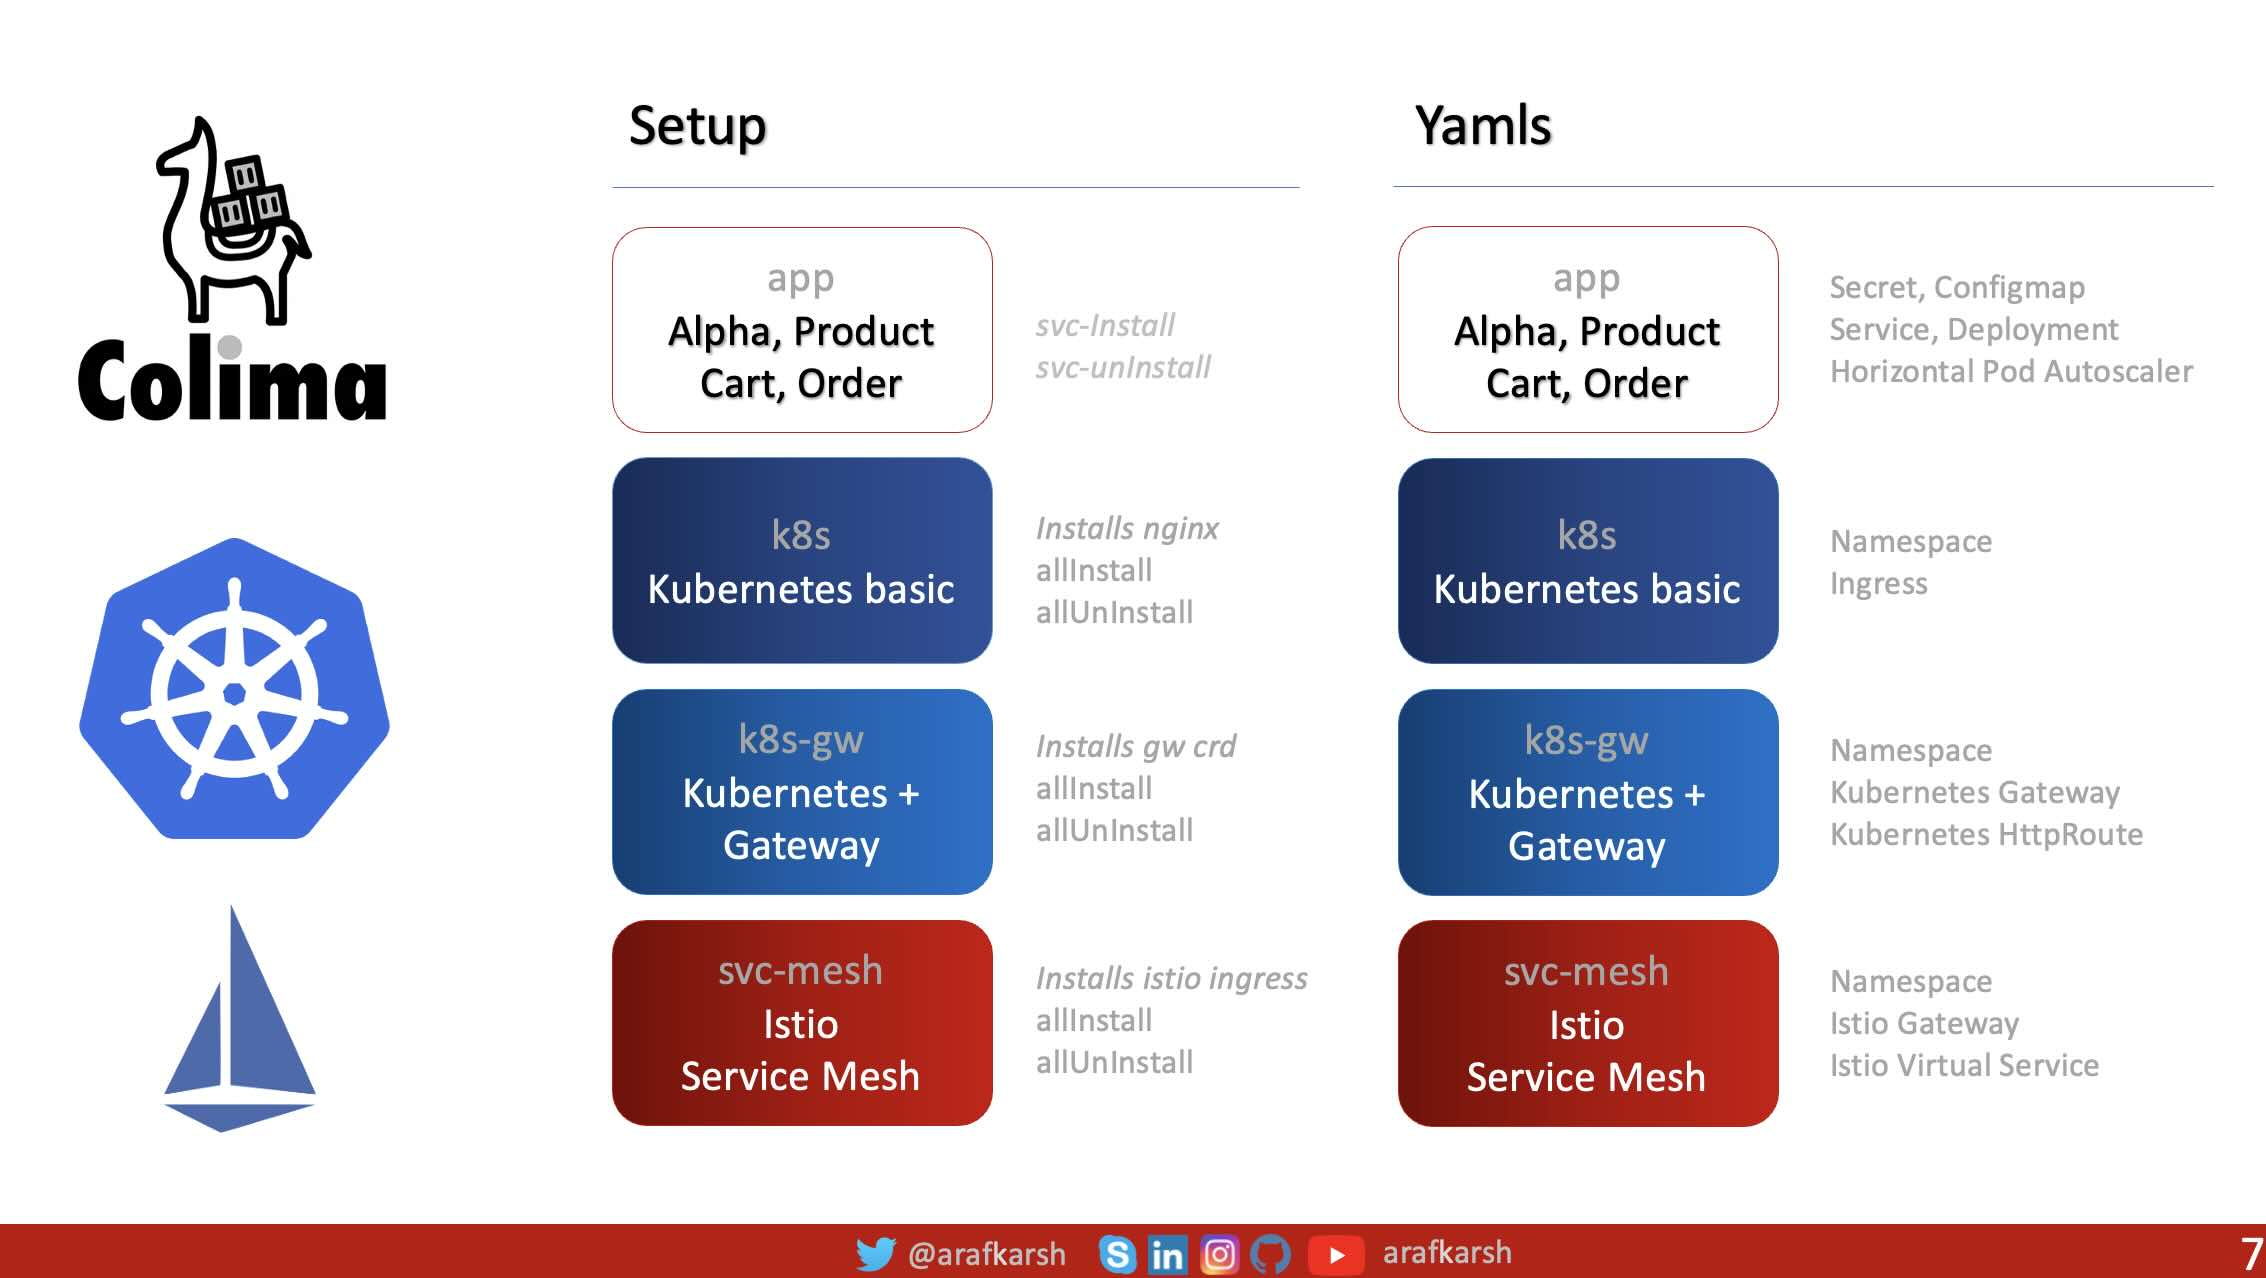
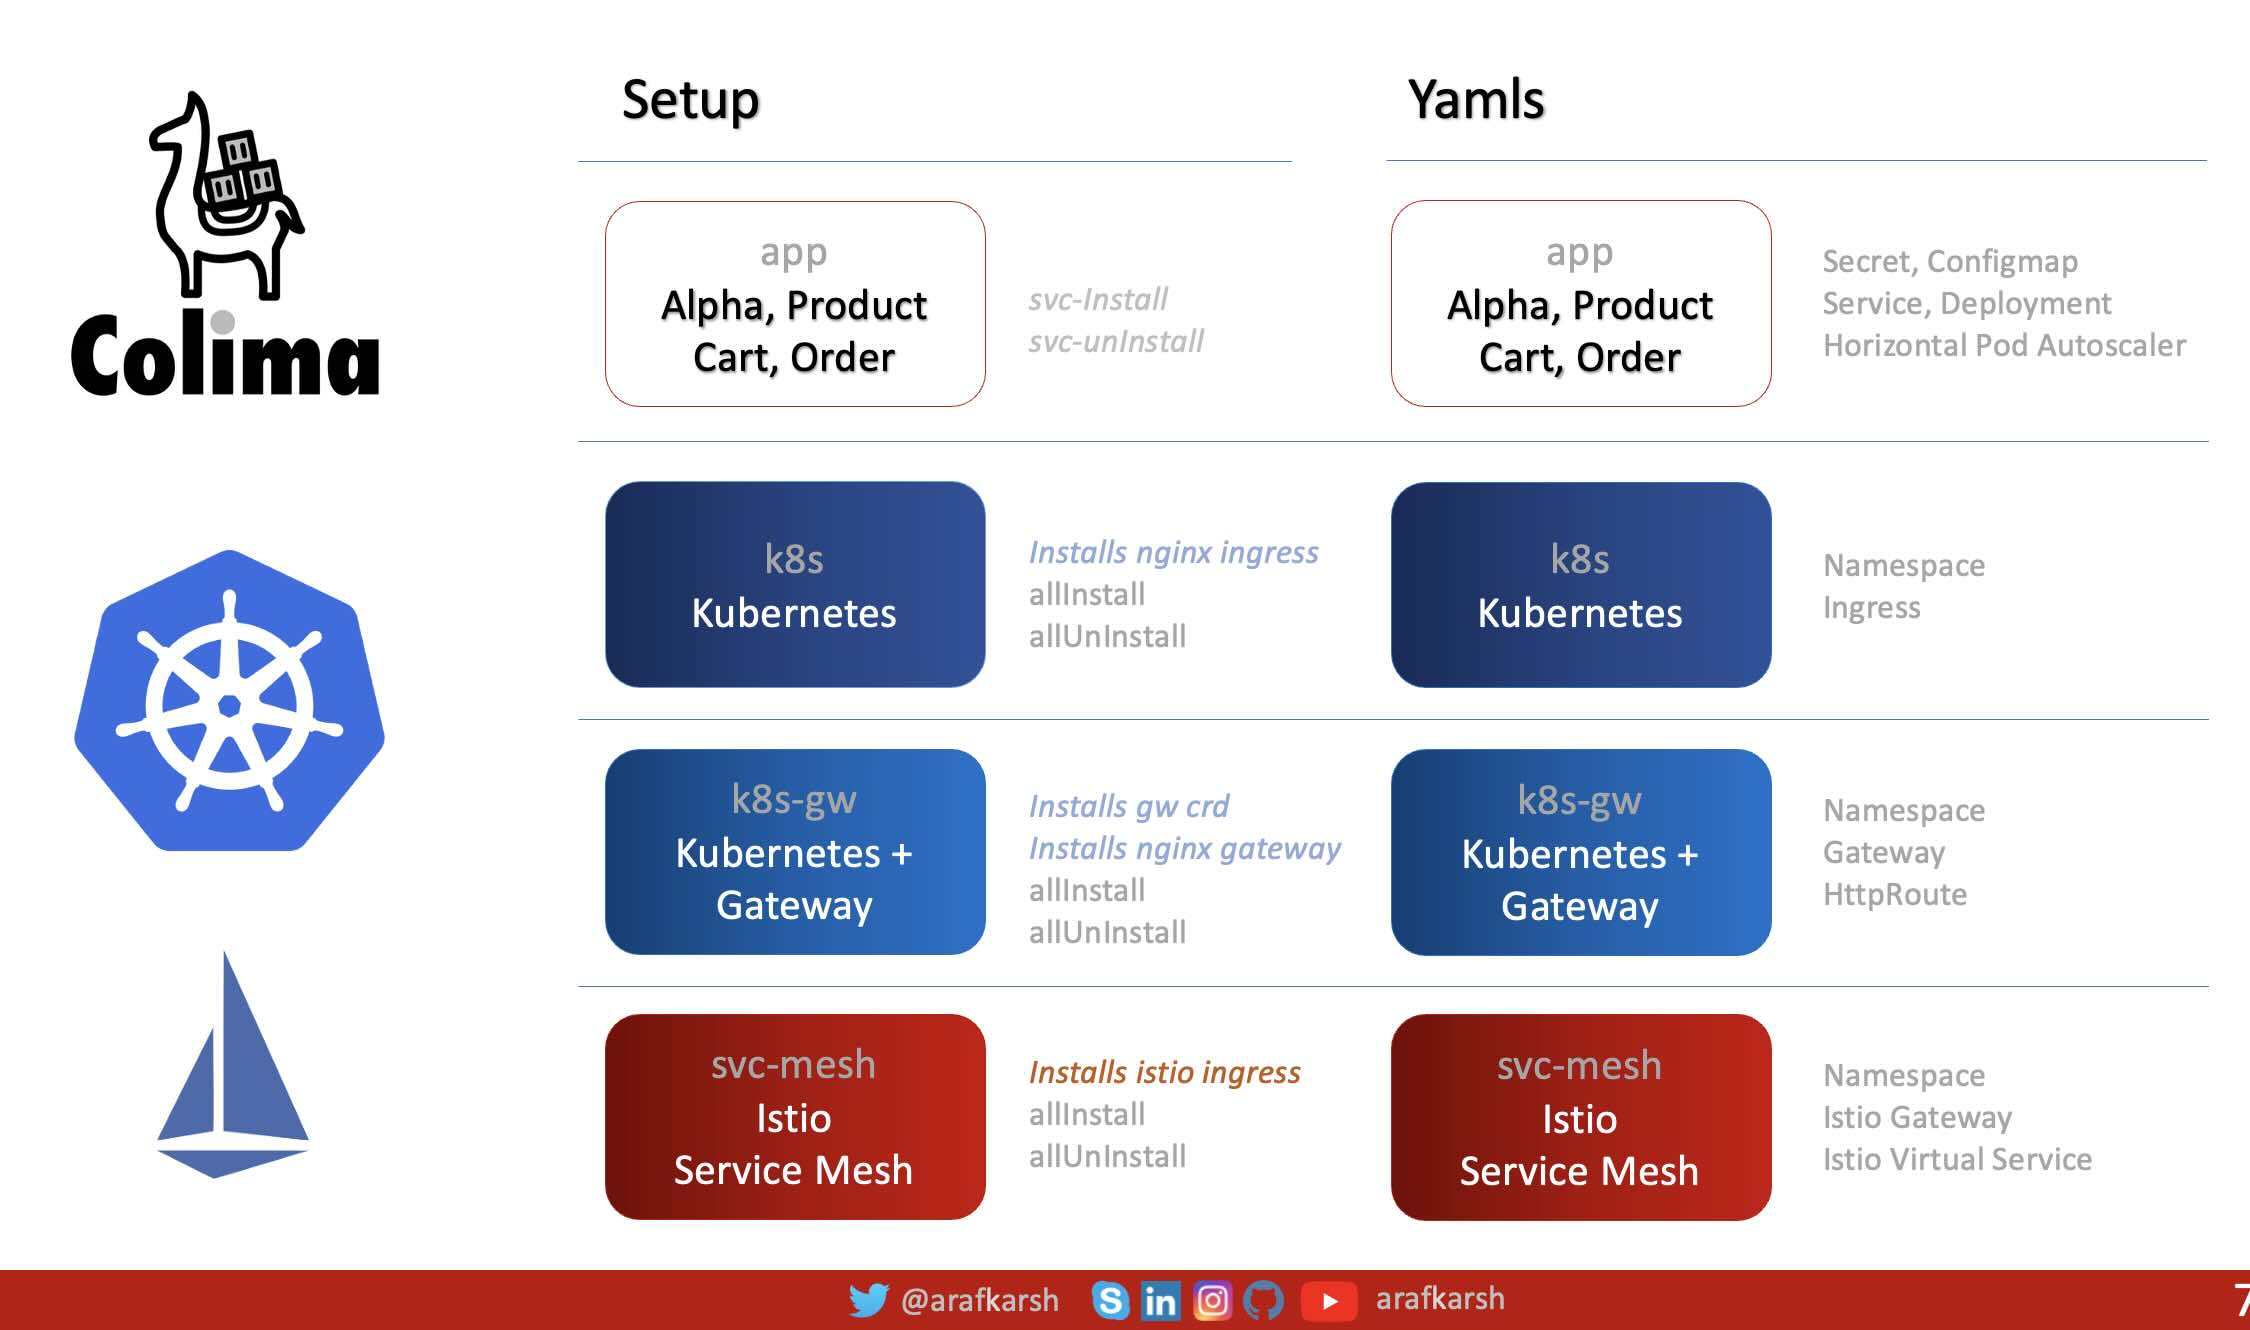
Added nginx gateway fabric controller

diff --git a/README.MD b/README.MD
@@ -14,6 +14,8 @@
 ### 1.1 Getting Started with Colima
 Please click <a href="https://github.com/arafkarsh/k8s-quickstart/tree/main/colima">here</a> for getting started with Colima, Docker, Kubernetes, Istio installation and Demo Apps.
 
+![Setup](https://raw.githubusercontent.com/arafkarsh/k8s-quickstart/main/diagrams/Colima-K8s-Istio.jpg)
+
 ### 1.2 Getting Started with KinD
 Please click <a href="https://github.com/arafkarsh/k8s-quickstart/tree/main/kind">here</a> for getting started with C Docker, KinD, Kubernetes installation and Demo Apps.
 
